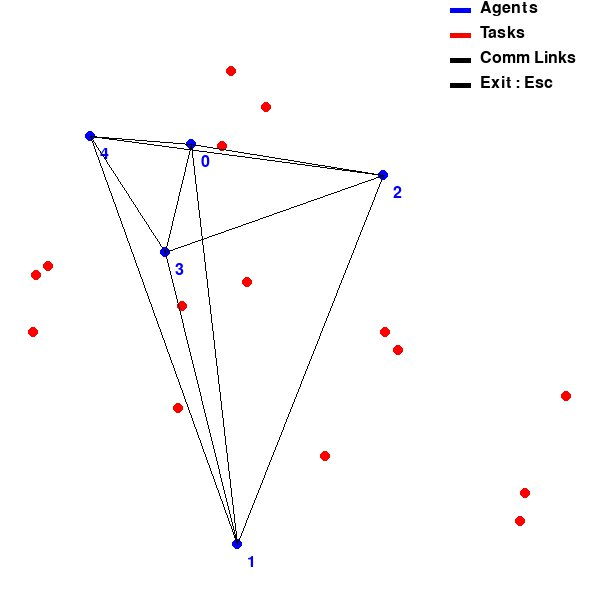
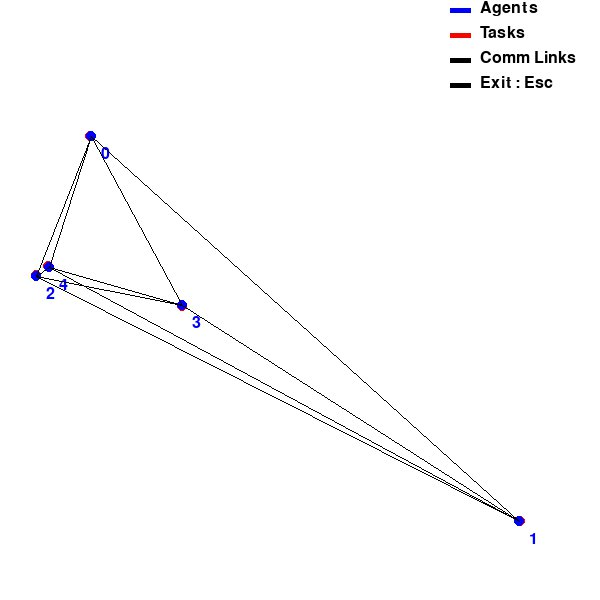
PL - vizualisation small changes CBAA works fine

diff --git a/python-script/simulations/CBAA_sim.py b/python-script/simulations/CBAA_sim.py
@@ -38,15 +38,15 @@ class CBAA_plot():
         pos = None
         match topology:
             case 1:
-                G, pos = net.get_star_network_topology(agent_num) #does not allow single task assignement per agents because of the communication gaps between agents.
+                G = net.get_star_network_topology(agent_num) #does not allow single task assignement per agents because of the communication gaps between agents.
             case 2:
-                G, pos = net.get_fully_connected_network_topology(agent_num) #allows single task assignement per agents because all agents know what the others are doing.
+                G = net.get_fully_connected_network_topology(agent_num) #allows single task assignement per agents because all agents know what the others are doing.
             case 3:
-                G, pos = net.get_ring_network_topology(agent_num)#does not allow single task assignement per agents because of the communication gaps between agents.
+                G = net.get_ring_network_topology(agent_num)#does not allow single task assignement per agents because of the communication gaps between agents.
             case 4:
-                G, pos = net.get_mesh_network_topology(agent_num)#allows single task assignement per agents because all agents know what the others are doing.
+                G = net.get_mesh_network_topology(agent_num)#allows single task assignement per agents because all agents know what the others are doing.
             case 5:
-                G, pos = net.get_random_network_topology(agent_num, 0.5) #random based
+                G = net.get_random_network_topology(agent_num, 0.5) #random based
 
         #SIMULATION PARAMETERS        
         #---------------------------------------------------------------------+

diff --git a/python-script/simulations/algorithms/CBAA_algorithm.py b/python-script/simulations/algorithms/CBAA_algorithm.py
@@ -31,7 +31,7 @@ class CBAA_agent():
         
         #agent's bid on a task, which is a score here defined by the euclidean distance
         #it is possible to change the nature of the score to see if it impacts performance
-        self.c = -distance_matrix(self.position, J).squeeze()
+        self.c = -distance_matrix(self.position, J).squeeze() # tirer un avantage individuel en executant les taches
 
         #agent ID
         self.id = id
@@ -98,7 +98,7 @@ class CBAA_agent():
             converged = True
 
         return converged
-    
+
 
 
     def send_message_in_neighborhood(self):

diff --git a/python-script/simulations/CBAAL.py b/python-script/simulations/CBAAL.py
@@ -46,9 +46,9 @@ CONSENSUS-BASED AUCTION ALGORITHMS LIBRARY
         if viz == "gui":
             CBAA().simulation(nb_tasks, nb_agents, max_t, topology)
         else:
-            CBAA_plot.simulation(nb_tasks, nb_agents, max_t, True, topology)
+            CBAA_plot().simulation(nb_tasks, nb_agents, max_t, True, 2)
     else:
         if viz == "gui":
             CBBA().simulation(nb_tasks, nb_agents, max_t, topology)
         else:
-            CBBA_plot.simulation(nb_tasks, nb_agents, max_t, True, topology)
+            CBBA_plot().simulation(nb_tasks, nb_agents, max_t, True, 2)
